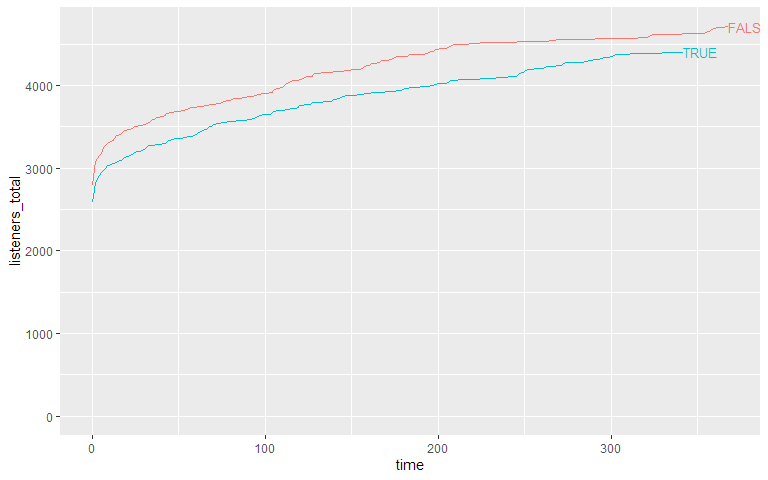
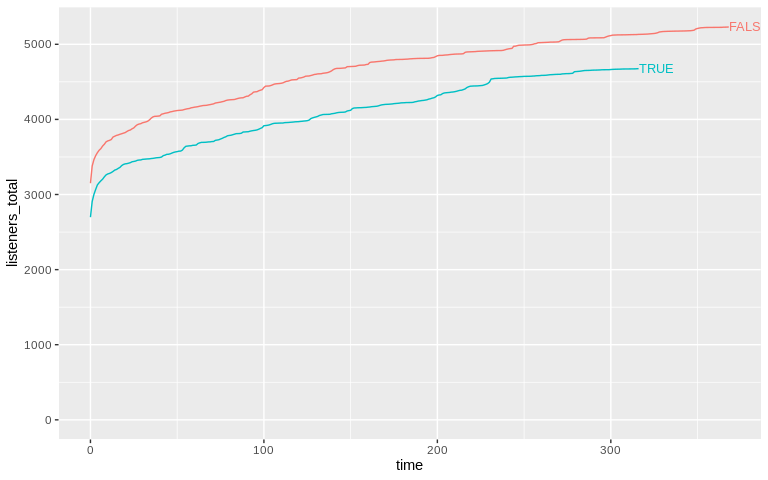
1.1.2: Update vignette / readme to include note on CSV separators

diff --git a/README.md b/README.md
@@ -132,7 +132,7 @@ hosters are stricter and don’t allow any access except via SSH tunnels.
 Finally, you might need to check if the **tables name prefix** in your
 Wordpress database corresponds to the usual naming conventions. Most
 Wordpress installations start the tables with `wp_`, but sometimes, this
-prefix differs (e.g. `wp_wtig_`). For starters, you can just try to use
+prefix differs (e.g. `wp_wtig_`). For starters, you can just try to use
 the default prefix built into the function. If the prefix is different
 than the default, you will get an error message. If that’s the case,
 access your hoster’s MySQL management tool (e.g. phpMyAdmin, PHP
@@ -244,6 +244,14 @@ table and clean the data:
                                          df_user = useragent_table,
                                          df_posts = posts_table)
 
+Note: If during reading of the CSV files you notice that your data
+frames consist of only one column, check your CSV files which separator
+is used. Some use semicolons (`;`) instead of commas (`,`). If that’s
+the case, use the option `sep = ";"` (or any other separator) inside
+your `read.csv()` commands, e.g.
+
+    download_table <- read.csv("wp_podlove_downloadintentclean.csv", as.is = TRUE, sep = ";")
+
 Create Example Data
 -------------------
 
@@ -263,20 +271,20 @@ input tables.
 Here it is:
 
     print(downloads)
-    #> # A tibble: 9,116 x 20
-    #>    ep_number title ep_num_title duration                   post_date 
-    #>    <chr>     <chr> <chr>        <Duration>                 <date>    
-    #>  1 01        Asht~ 01: Ashton-~ 1948.105s (~32.47 minutes) 2019-01-01
-    #>  2 01        Asht~ 01: Ashton-~ 1948.105s (~32.47 minutes) 2019-01-01
-    #>  3 01        Asht~ 01: Ashton-~ 1948.105s (~32.47 minutes) 2019-01-01
-    #>  4 01        Asht~ 01: Ashton-~ 1948.105s (~32.47 minutes) 2019-01-01
-    #>  5 01        Asht~ 01: Ashton-~ 1948.105s (~32.47 minutes) 2019-01-01
-    #>  6 01        Asht~ 01: Ashton-~ 1948.105s (~32.47 minutes) 2019-01-01
-    #>  7 01        Asht~ 01: Ashton-~ 1948.105s (~32.47 minutes) 2019-01-01
-    #>  8 01        Asht~ 01: Ashton-~ 1948.105s (~32.47 minutes) 2019-01-01
-    #>  9 01        Asht~ 01: Ashton-~ 1948.105s (~32.47 minutes) 2019-01-01
-    #> 10 01        Asht~ 01: Ashton-~ 1948.105s (~32.47 minutes) 2019-01-01
-    #> # ... with 9,106 more rows, and 15 more variables: post_datehour <dttm>,
+    #> # A tibble: 9,907 x 20
+    #>    ep_number title ep_num_title duration                  post_date 
+    #>    <chr>     <chr> <chr>        <Duration>                <date>    
+    #>  1 01        Port… 01: Portrai… 1641.22s (~27.35 minutes) 2019-01-01
+    #>  2 01        Port… 01: Portrai… 1641.22s (~27.35 minutes) 2019-01-01
+    #>  3 01        Port… 01: Portrai… 1641.22s (~27.35 minutes) 2019-01-01
+    #>  4 01        Port… 01: Portrai… 1641.22s (~27.35 minutes) 2019-01-01
+    #>  5 01        Port… 01: Portrai… 1641.22s (~27.35 minutes) 2019-01-01
+    #>  6 01        Port… 01: Portrai… 1641.22s (~27.35 minutes) 2019-01-01
+    #>  7 01        Port… 01: Portrai… 1641.22s (~27.35 minutes) 2019-01-01
+    #>  8 01        Port… 01: Portrai… 1641.22s (~27.35 minutes) 2019-01-01
+    #>  9 01        Port… 01: Portrai… 1641.22s (~27.35 minutes) 2019-01-01
+    #> 10 01        Port… 01: Portrai… 1641.22s (~27.35 minutes) 2019-01-01
+    #> # … with 9,897 more rows, and 15 more variables: post_datehour <dttm>,
     #> #   ep_age_hours <dbl>, ep_age_days <dbl>, hours_since_release <dbl>,
     #> #   days_since_release <dbl>, source <chr>, context <chr>, dldate <date>,
     #> #   dldatehour <dttm>, weekday <ord>, hour <int>, client_name <chr>,
@@ -318,13 +326,13 @@ the data:
     #> Total runtime:  11m 4d 22H 0M 0S.
     #> Average time between episodes: 2928240s (~4.84 weeks).
     #> 
-    #> Episodes were downloaded 9116 times between 2019-01-01 and 2020-01-04.
+    #> Episodes were downloaded 9907 times between 2019-01-01 and 2020-01-04.
     #> 
-    #> Downloads per episode: 911.6
-    #> min: 148 | 25p: 413 | med: 872 | 75p: 1330 | max: 1859
+    #> Downloads per episode: 990.7
+    #> min: 148 | 25p: 412 | med: 1069.5 | 75p: 1463 | max: 1861
     #> 
-    #> Downloads per day: 24.7
-    #> min: 1 | 25p: 3 | med: 7 | 75p: 16 | max: 1095
+    #> Downloads per day: 26.9
+    #> min: 1 | 25p: 4 | med: 9 | 75p: 16 | max: 1095
     #> NULL
 
 If you set the parameter `return_params` to `TRUE`, you can access the
@@ -342,7 +350,7 @@ want to see the printed summary.
     #> [11] "downloads_per_day_mean"     "downloads_per_day_5num"
 
     pod_sum$n_downloads
-    #> [1] 9116
+    #> [1] 9907
     pod_sum$dl_last_date
     #> [1] "2020-01-04 22:00:00 UTC"
 
@@ -366,14 +374,14 @@ function (which is based on the `ggplo2` package) helps you do that.
     -   `ep_number`: The episode’s official number
     -   `title`: The episode’s title
     -   `ep_num_title`: The episode’s title with the number in front
-    -   `source`: The dowload source - e.g. “feed” for RSS, “webplayer”
+    -   `source`: The dowload source - e.g. “feed” for RSS, “webplayer”
         for plays on a website, “download” for file downloads
     -   `context`: The file type for feeds and downloads, “episode” for
         feed accesses
     -   `client_name`: The client application (e.g. the podcatcher’s or
         brower’s name)
-    -   `client_type`: A more coarse grouping of the clients,
-        e.g. “mediaplayer”, “browser”, “mobile app”.
+    -   `client_type`: A more coarse grouping of the clients, e.g.
+        “mediaplayer”, “browser”, “mobile app”.
     -   `os_name`: The operating system’s name of the client
         (e.g. Android, Linux, Mac)
     -   Any other grouping variable you create yourself from the
@@ -560,18 +568,18 @@ don’t have to be the same. Here, we’ll use 0-3 days for the launch and
 
     perf
     #> # A tibble: 10 x 5
-    #>    title               dls dls_per_day dls_per_day_at_lau~ dls_per_day_after_la~
-    #>    <chr>             <int>       <dbl>               <dbl>                 <dbl>
-    #>  1 Acute myeloid le~   808        5.04               177.                 1.20  
-    #>  2 Ashton-under-Lyne  1859        5.04               404.                 1.48  
-    #>  3 Cortinarius viol~   413        5.03                88.2                1.05  
-    #>  4 Debora Green        148        4.93                45.9                0.0333
-    #>  5 Ficus aurea         542        5.01               114.                 1.17  
-    #>  6 Gwoyeu Romatzyh     936        5.02               184.                 1.23  
-    #>  7 Mary Toft          1727        5.04               359.                 1.49  
-    #>  8 Samantha Smith     1330        5.03               366.                 1.38  
-    #>  9 Shapinsay          1072        5.05               233.                 1.33  
-    #> 10 White-winged fai~   281        5.01                83.8                0.732
+    #>    title                   dls dls_per_day dls_per_day_at_la… dls_per_day_after…
+    #>    <chr>                 <int>       <dbl>              <dbl>              <dbl>
+    #>  1 Bruce Castle           1202        5.04              236               1.43  
+    #>  2 Castle                  674        5.02              163.              1.35  
+    #>  3 Ceilings of the Natu…   412        5.02              105               0.998 
+    #>  4 Construction of Rock…  1599        5.05              368.              1.36  
+    #>  5 Duke University        1463        5.03              309.              1.24  
+    #>  6 Giant otter             148        4.93               50.8             0.0333
+    #>  7 Jerome, Arizona         937        5.03              207               1.21  
+    #>  8 Limalok                 280        5.00               71.2             0.785 
+    #>  9 Portrait of Maria Po…  1861        5.04              404.              1.43  
+    #> 10 Robert Garran          1331        5.03              297.              1.17
 
     colnames(perf)
     #> [1] "title"                    "dls"                     
@@ -587,18 +595,18 @@ a ranking of the best launches, you can just sort the list:
       dplyr::select(title, dls_per_day_at_launch) %>% 
       dplyr::arrange(desc(dls_per_day_at_launch))
     #> # A tibble: 10 x 2
-    #>    title                  dls_per_day_at_launch
-    #>    <chr>                                  <dbl>
-    #>  1 Ashton-under-Lyne                      404. 
-    #>  2 Samantha Smith                         366. 
-    #>  3 Mary Toft                              359. 
-    #>  4 Shapinsay                              233. 
-    #>  5 Gwoyeu Romatzyh                        184. 
-    #>  6 Acute myeloid leukemia                 177. 
-    #>  7 Ficus aurea                            114. 
-    #>  8 Cortinarius violaceus                   88.2
-    #>  9 White-winged fairywren                  83.8
-    #> 10 Debora Green                            45.9
+    #>    title                                          dls_per_day_at_launch
+    #>    <chr>                                                          <dbl>
+    #>  1 Portrait of Maria Portinari                                    404. 
+    #>  2 Construction of Rockefeller Center                             368. 
+    #>  3 Duke University                                                309. 
+    #>  4 Robert Garran                                                  297. 
+    #>  5 Bruce Castle                                                   236  
+    #>  6 Jerome, Arizona                                                207  
+    #>  7 Castle                                                         163. 
+    #>  8 Ceilings of the Natural History Museum, London                 105  
+    #>  9 Limalok                                                         71.2
+    #> 10 Giant otter                                                     50.8
 
 So there are episodes with different launches strengths long-term
 performance. Can you plot them against each other? Yes, you can! The
@@ -646,17 +654,17 @@ points. For this example, we’ll pick a period of 30 days after launch:
     #> # A tibble: 10 x 12
     #>    ep_number title ep_num_title duration                   post_date 
     #>    <chr>     <chr> <chr>        <Duration>                 <date>    
-    #>  1 01        Asht~ 01: Ashton-~ 1948.105s (~32.47 minutes) 2019-01-01
-    #>  2 02        Mary~ 02: Mary To~ 2762.547s (~46.04 minutes) 2019-01-27
-    #>  3 03        Sama~ 03: Samanth~ 1833.42s (~30.56 minutes)  2019-04-15
-    #>  4 04        Shap~ 04: Shapins~ 2478.45s (~41.31 minutes)  2019-06-06
-    #>  5 05        Gwoy~ 05: Gwoyeu ~ 1622.871s (~27.05 minutes) 2019-07-02
-    #>  6 06        Acut~ 06: Acute m~ 1425.373s (~23.76 minutes) 2019-07-28
-    #>  7 07        Ficu~ 07: Ficus a~ 2009.489s (~33.49 minutes) 2019-09-18
-    #>  8 08        Cort~ 08: Cortina~ 1141.42s (~19.02 minutes)  2019-10-14
-    #>  9 09        Whit~ 09: White-w~ 1117.564s (~18.63 minutes) 2019-11-09
-    #> 10 10        Debo~ 10: Debora ~ 1737.592s (~28.96 minutes) 2019-12-05
-    #> # ... with 7 more variables: post_datehour <dttm>, ep_age_hours <dbl>,
+    #>  1 01        Port… 01: Portrai… 1641.22s (~27.35 minutes)  2019-01-01
+    #>  2 02        Cons… 02: Constru… 1179.396s (~19.66 minutes) 2019-02-22
+    #>  3 03        Duke… 03: Duke Un… 637.664s (~10.63 minutes)  2019-03-20
+    #>  4 04        Robe… 04: Robert … 3087.407s (~51.46 minutes) 2019-04-15
+    #>  5 05        Bruc… 05: Bruce C… 2247.582s (~37.46 minutes) 2019-05-11
+    #>  6 06        Jero… 06: Jerome,… 2622.9s (~43.72 minutes)   2019-07-02
+    #>  7 07        Cast… 07: Castle   1130.651s (~18.84 minutes) 2019-08-23
+    #>  8 08        Ceil… 08: Ceiling… 816.862s (~13.61 minutes)  2019-10-14
+    #>  9 09        Lima… 09: Limalok  2148.397s (~35.81 minutes) 2019-11-09
+    #> 10 10        Gian… 10: Giant o… 1363.267s (~22.72 minutes) 2019-12-05
+    #> # … with 7 more variables: post_datehour <dttm>, ep_age_hours <dbl>,
     #> #   ep_age_days <dbl>, ep_rank <int>, measure_day <dbl>, measure_hour <dbl>,
     #> #   downloads <int>
 
@@ -678,18 +686,18 @@ and see if your model is significant:
     #> 
     #> Residuals:
     #>     Min      1Q  Median      3Q     Max 
-    #> -81.218 -36.058  -4.682  41.853  81.424 
+    #> -65.188 -37.150  -2.358  37.727  73.473 
     #> 
     #> Coefficients:
     #>             Estimate Std. Error t value Pr(>|t|)    
-    #> (Intercept) 1397.933     39.849   35.08 4.77e-10 ***
-    #> ep_rank     -131.679      6.422  -20.50 3.35e-08 ***
+    #> (Intercept) 1499.867     35.100   42.73 9.92e-11 ***
+    #> ep_rank     -138.085      5.657  -24.41 8.47e-09 ***
     #> ---
     #> Signif. codes:  0 '***' 0.001 '**' 0.01 '*' 0.05 '.' 0.1 ' ' 1
     #> 
-    #> Residual standard error: 58.33 on 8 degrees of freedom
-    #> Multiple R-squared:  0.9813, Adjusted R-squared:  0.979 
-    #> F-statistic: 420.4 on 1 and 8 DF,  p-value: 3.35e-08
+    #> Residual standard error: 51.38 on 8 degrees of freedom
+    #> Multiple R-squared:  0.9868, Adjusted R-squared:  0.9851 
+    #> F-statistic: 595.9 on 1 and 8 DF,  p-value: 8.468e-09
 
 Or you could just check out the regression plot with the function
 `podlove_graph_regression()` and see in which direction the line points:
@@ -699,7 +707,7 @@ Or you could just check out the regression plot with the function
 ![](README_files/figure-markdown_strict/unnamed-chunk-22-1.png)
 
 Oh noes! It seems like your podcast is steadily losing listeners at the
-rate of -132 listeners per episode!
+rate of -138 listeners per episode!
 
 Finally
 -------
